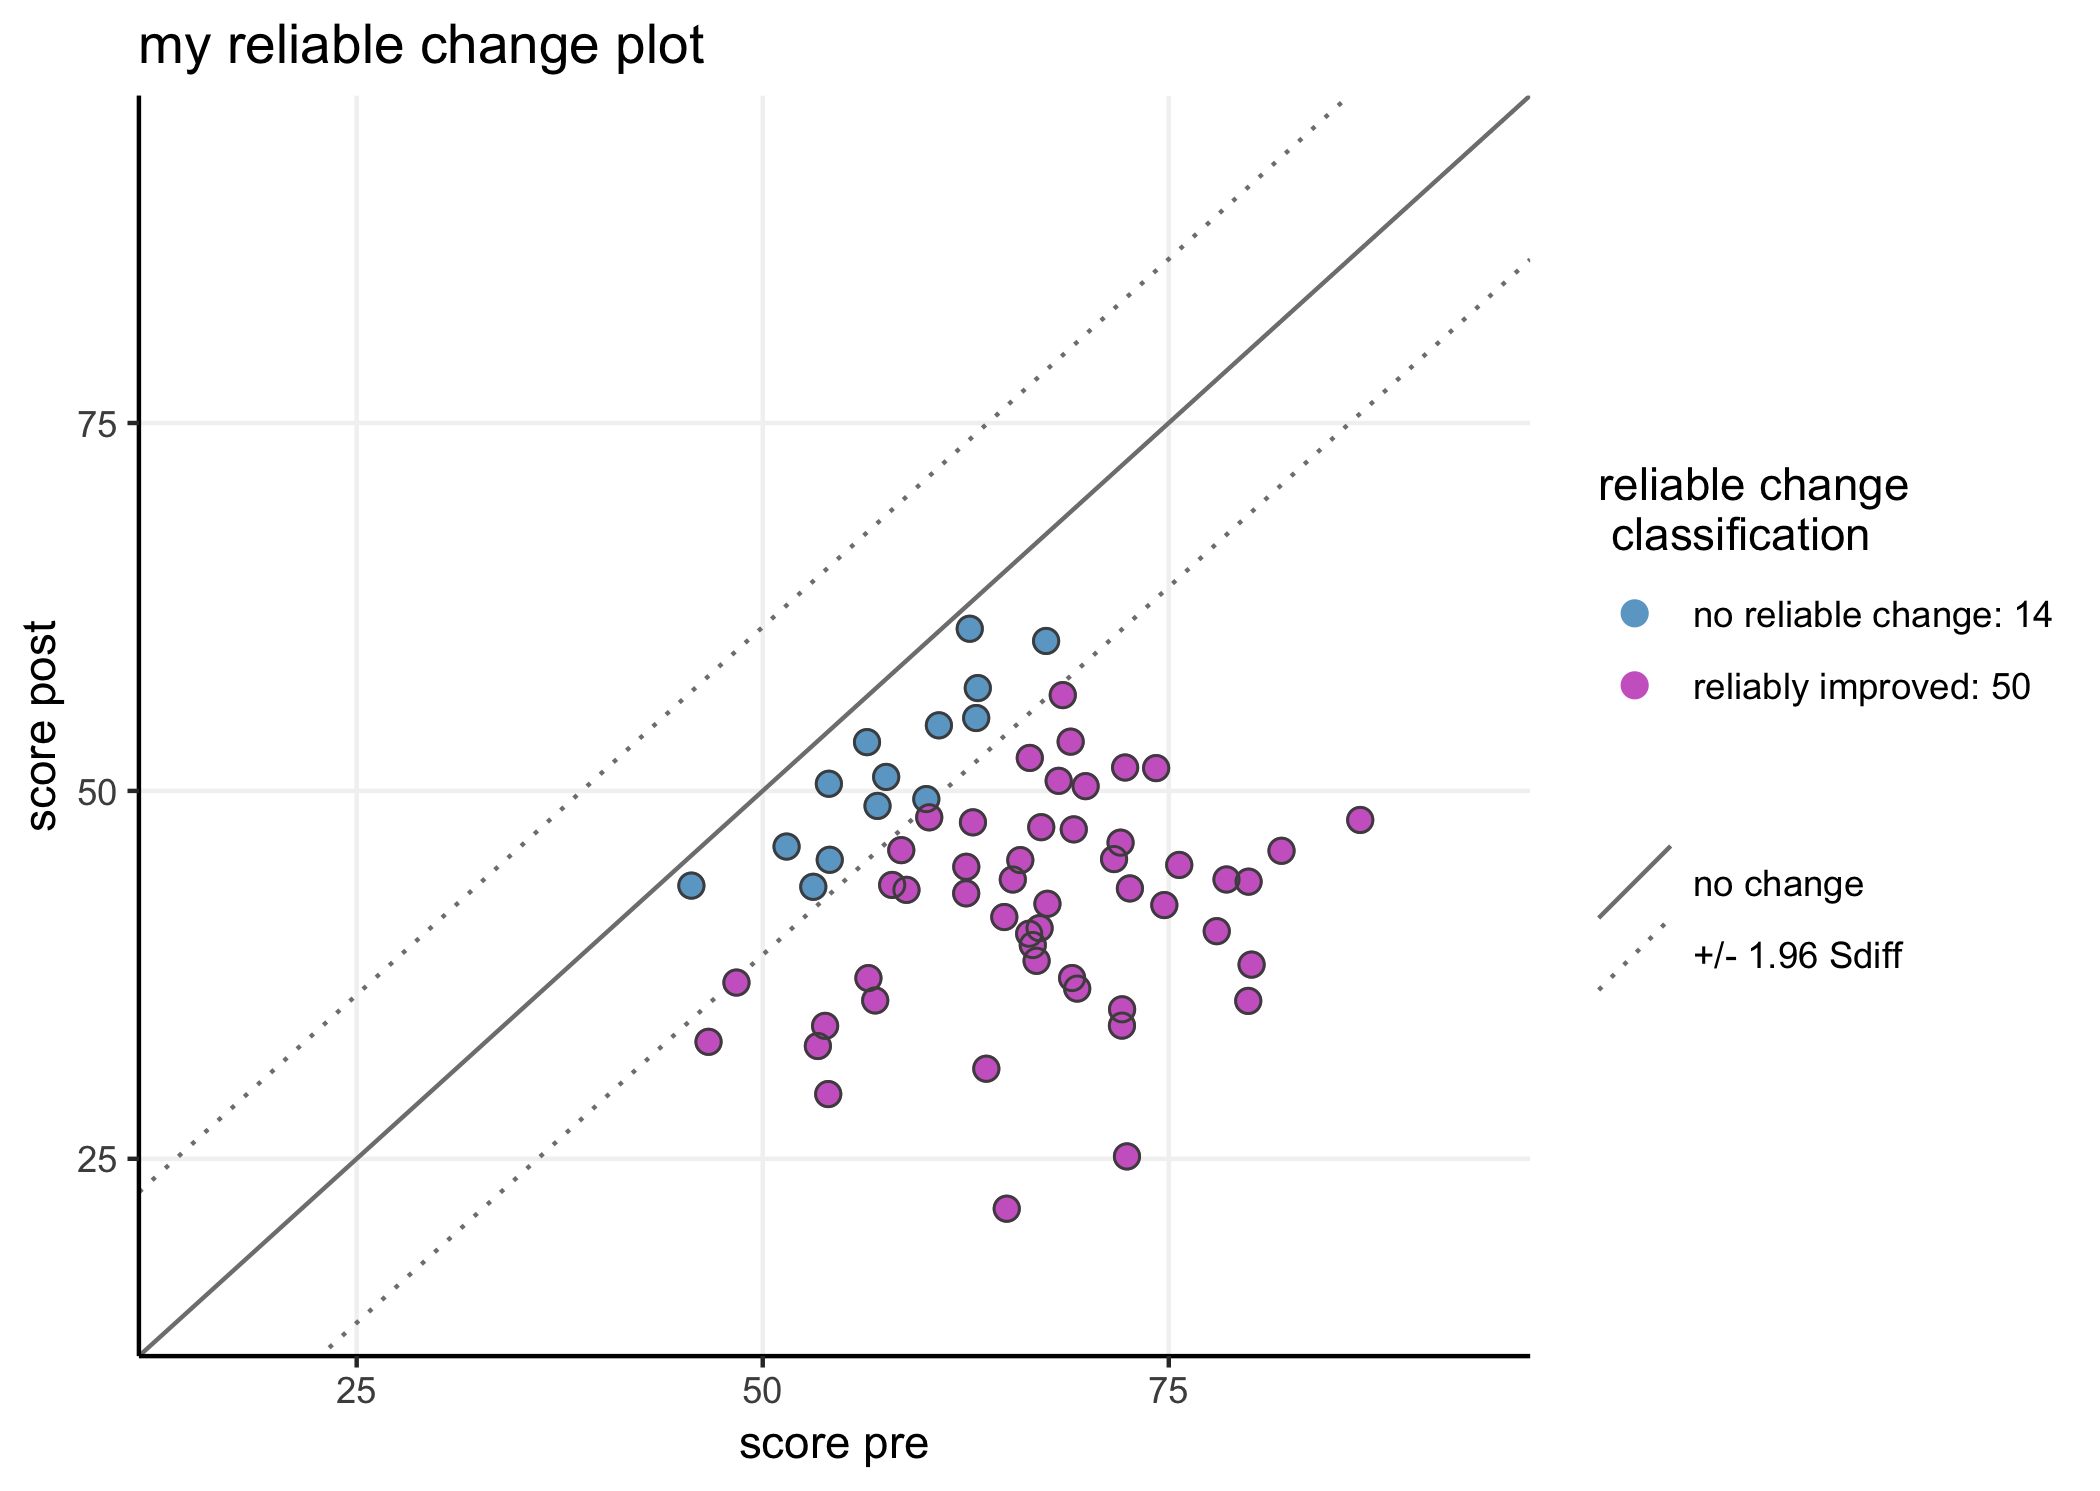
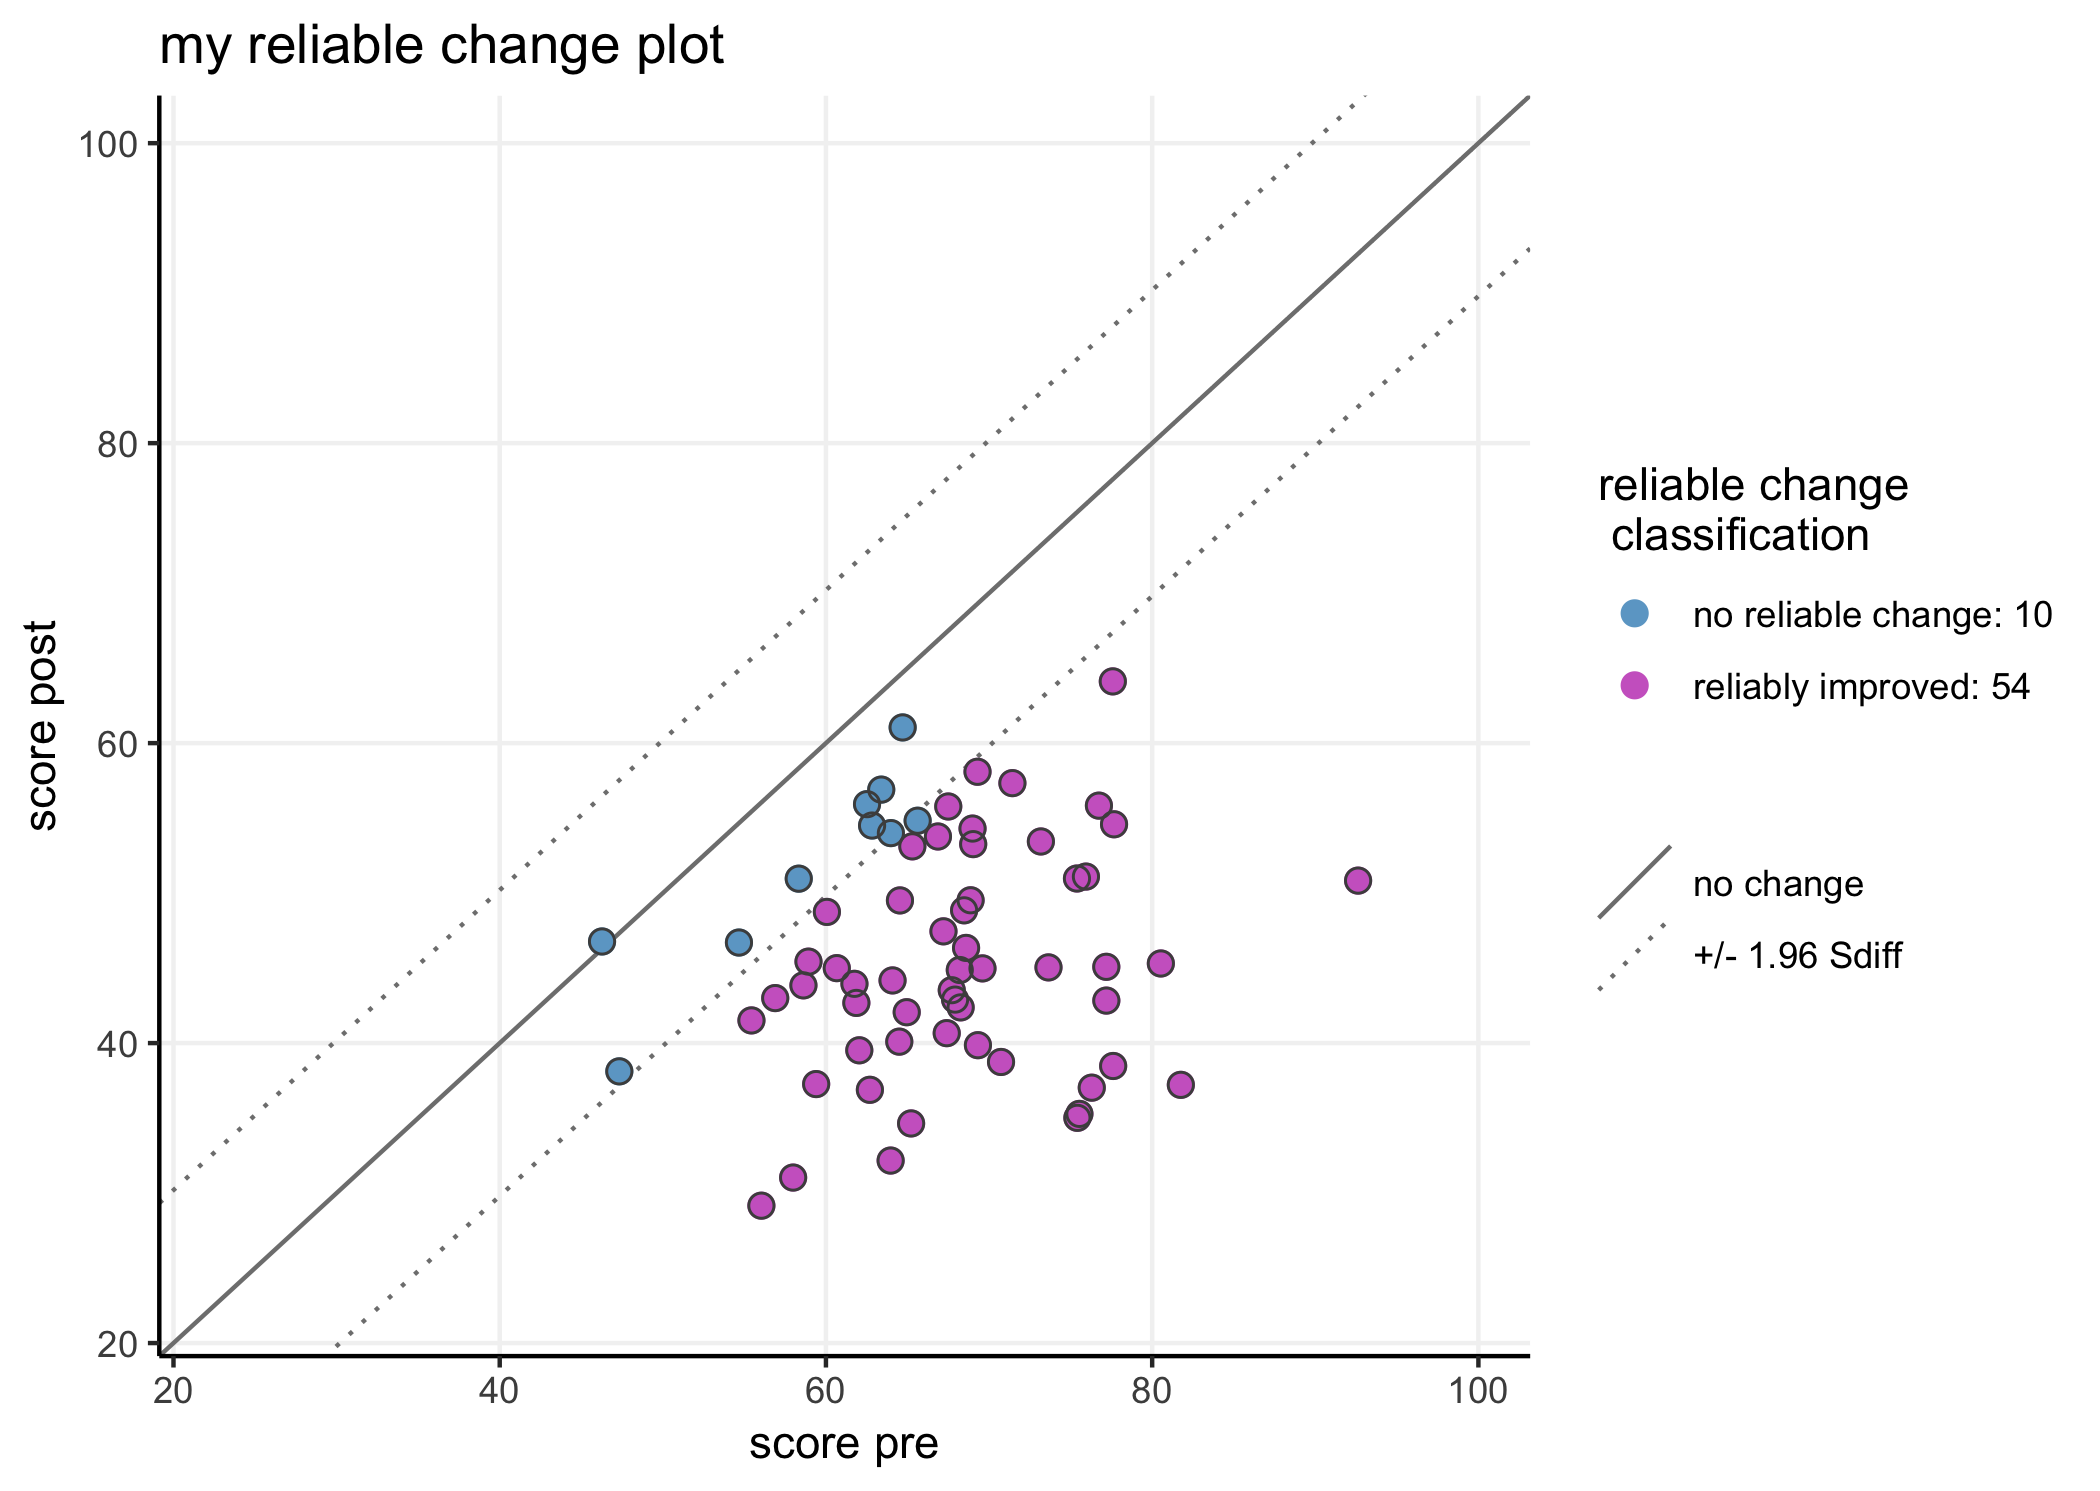
generated readme anew for clearer (random) example data

diff --git a/README.md b/README.md
@@ -101,7 +101,7 @@ JTRCI(data = df,
     ## NB: using the sample baseline distribution to characterize the dysfunctional population. 
     ##     to change: provide norms for dysfunctional population using 'dysfM =' and 'dysfSD ='
 
-    ## Jacobson-Truax criterion A: 47.2
+    ## Jacobson-Truax criterion A: 50.6
 
     ##  this value represents two sd from the baseline total sample mean
 
@@ -109,10 +109,10 @@ JTRCI(data = df,
     ##  interpret their Jacobson-Truax classification with caution
 
     ##    Jacobson Truax classification  N
-    ## 1:                     unchanged 10
-    ## 2:                      improved 12
-    ## 3:        non reliably recovered  4
-    ## 4:                     recovered 38
+    ## 1:                     unchanged  7
+    ## 2:                      improved 14
+    ## 3:        non reliably recovered  3
+    ## 4:                     recovered 40
 
 <img src="README_files/figure-gfm/unnamed-chunk-8-1.png" height="450px" />
 
@@ -164,10 +164,10 @@ JTRCI(data = df, pre = "pre", post = "post",  group = "group", ppid = "ppid",
     ##  this value represents two sd from the functional/healthy population norm mean
 
     ##    Jacobson Truax classification  N
-    ## 1:                     unchanged 11
-    ## 2:                      improved 17
-    ## 3:        non reliably recovered  3
-    ## 4:                     recovered 33
+    ## 1:                     unchanged  9
+    ## 2:                      improved 24
+    ## 3:        non reliably recovered  1
+    ## 4:                     recovered 30
 
 <img src="README_files/figure-gfm/unnamed-chunk-11-1.png" height="450px" />
 
@@ -184,7 +184,7 @@ JTRCI(data = df, pre = "pre", post = "post",  group = "group", ppid = "ppid",
     ## Assumed that lower scores are better (and reduction == improvement),
     ##  if that is incorrect: set higherIsBetter = T
 
-    ## Jacobson-Truax criterion C:45.8
+    ## Jacobson-Truax criterion C:47.1
 
     ##  this value represents the weighted midpoint between the dysfunctional and functional norm mean, 
     ##  i.e. the value at which an individual is equally likely to belong to the functional as to the dysfunctional population
@@ -193,9 +193,9 @@ JTRCI(data = df, pre = "pre", post = "post",  group = "group", ppid = "ppid",
     ##  interpret their Jacobson-Truax classification with caution
 
     ##    Jacobson Truax classification  N
-    ## 1:                     unchanged 11
-    ## 2:                      improved 14
+    ## 1:                     unchanged  7
+    ## 2:                      improved 19
     ## 3:        non reliably recovered  3
-    ## 4:                     recovered 36
+    ## 4:                     recovered 35
 
 <img src="README_files/figure-gfm/unnamed-chunk-12-1.png" height="450px" />
